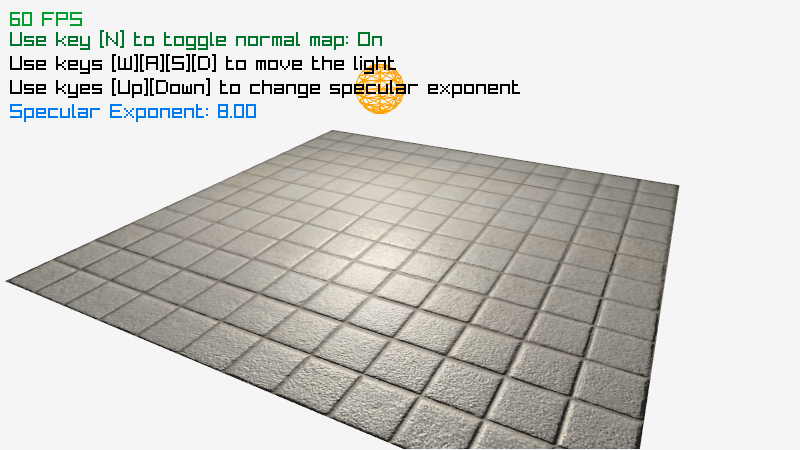
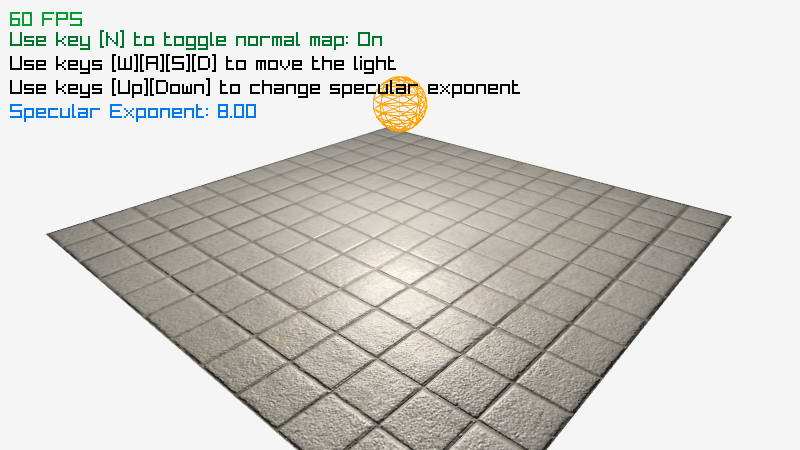
fix typo on UI and preview image

Changed region(s): [[0.0, 0.1244, 0.9375, 1.0], [0.0938, 0.1867, 0.125, 0.2178]]

diff --git a/examples/shaders/shaders_normalmap.c b/examples/shaders/shaders_normalmap.c
@@ -149,7 +149,7 @@ int main(void)
 
             int yOffset = 24;
             DrawText("Use keys [W][A][S][D] to move the light", 10, 30 + yOffset * 1, 20, BLACK);
-            DrawText("Use kyes [Up][Down] to change specular exponent", 10, 30 + yOffset * 2, 20, BLACK);
+            DrawText("Use keys [Up][Down] to change specular exponent", 10, 30 + yOffset * 2, 20, BLACK);
             DrawText(TextFormat("Specular Exponent: %.2f", specularExponent), 10, 30 + yOffset * 3, 20, BLUE);
 
             DrawFPS(10, 10);
